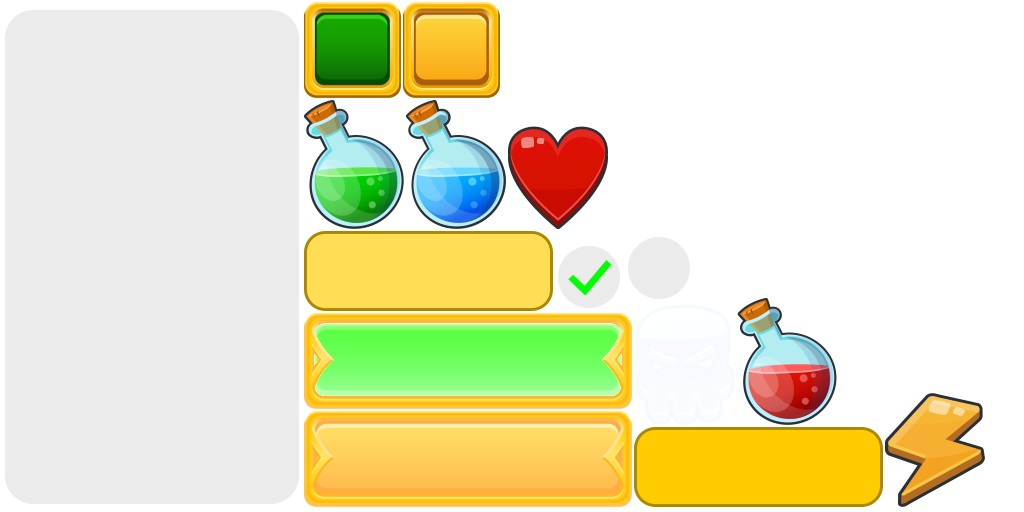
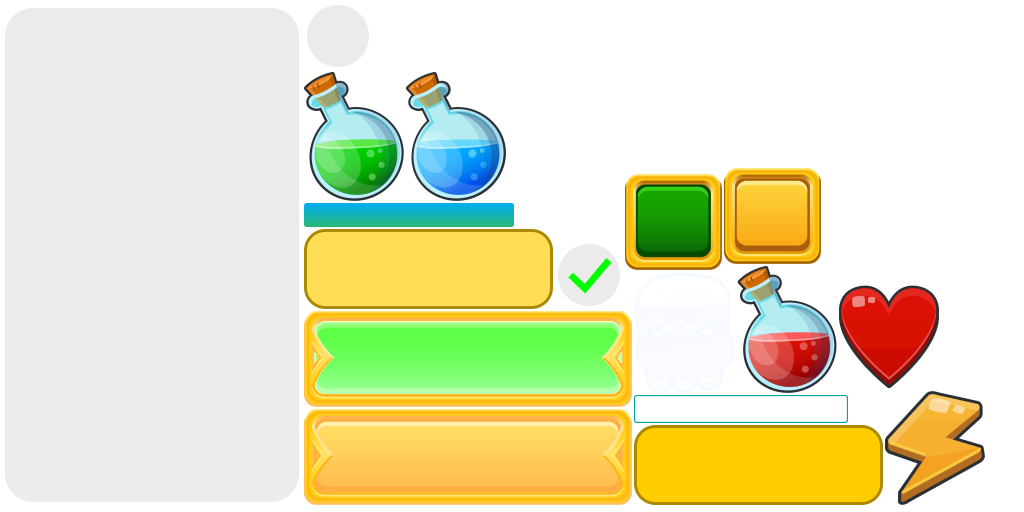
Adding ProgressBarUI

Changed region(s): [[0.2812, 0.0, 0.9688, 1.0], [0.2812, 0.6875, 0.3438, 0.7188], [0.3125, 0.875, 0.3438, 0.9062]]

diff --git a/core/src/main/java/com/axehigh/game/poc/menu/util/ProgressBarUI.java b/core/src/main/java/com/axehigh/game/poc/menu/util/ProgressBarUI.java
@@ -1,0 +1,51 @@
+package com.axehigh.game.poc.menu.util;
+
+import com.axehigh.game.poc.menu.assets.Assets;
+import com.badlogic.gdx.graphics.g2d.Batch;
+import com.badlogic.gdx.graphics.g2d.TextureAtlas.AtlasRegion;
+import com.badlogic.gdx.scenes.scene2d.ui.Image;
+import com.badlogic.gdx.scenes.scene2d.ui.Table;
+
+public class ProgressBarUI extends Table {
+    public final static float WIDTH = 180;
+    public final static float HEIGHT = 30;
+    float BAR_WIDTH = 140;
+    float BAR_HEIGHT = 20;
+
+    public float maxNum;
+    public float actualNum;
+    AtlasRegion bar;
+
+    public ProgressBarUI(AtlasRegion bar, AtlasRegion icon, float maxNum, float x, float y) {
+        this.setBounds(x, y, WIDTH, HEIGHT);
+        this.maxNum = maxNum;
+        this.actualNum = maxNum;
+        setBackground(Assets.progressBarBackground);
+        setIcon(icon);
+        this.bar = bar;
+
+    }
+
+    private void setIcon(AtlasRegion icon) {
+        Image imgIcon = new Image(icon);
+        // Both height because i want it to be a square
+        imgIcon.scaleBy(-.3f);
+        imgIcon.setPosition(-15, getHeight() / 2f - (imgIcon.getPrefHeight() * imgIcon.getScaleY() / 2f));
+        addActor(imgIcon);
+
+    }
+
+    public void updateActualNum(float actualNum) {
+        this.actualNum = actualNum;
+
+        if (actualNum > maxNum)
+            maxNum = actualNum;
+    }
+
+    @Override
+    public void draw(Batch batch, float parentAlpha) {
+        super.draw(batch, parentAlpha);
+        if (actualNum > 0)
+            batch.draw(bar, this.getX() + 34, this.getY() + 6, BAR_WIDTH * (actualNum / maxNum), BAR_HEIGHT);
+    }
+}

diff --git a/core/src/main/java/com/axehigh/game/poc/menu/menu/HudScreen.java b/core/src/main/java/com/axehigh/game/poc/menu/menu/HudScreen.java
@@ -3,16 +3,11 @@ package com.axehigh.game.poc.menu.menu;
 import com.axehigh.game.poc.menu.Game;
 import com.axehigh.game.poc.menu.assets.AssetDescriptors;
 import com.axehigh.game.poc.menu.assets.RegionNames;
-import com.axehigh.game.poc.menu.util.ScreenManager;
 import com.badlogic.gdx.scenes.scene2d.Actor;
-import com.badlogic.gdx.scenes.scene2d.ui.ImageButton;
 import com.badlogic.gdx.scenes.scene2d.ui.Skin;
 import com.badlogic.gdx.scenes.scene2d.ui.Table;
 import com.badlogic.gdx.scenes.scene2d.ui.TextButton;
 import com.badlogic.gdx.scenes.scene2d.utils.ChangeListener;
-
-import static com.axehigh.game.poc.menu.assets.RegionNames.iconSkuld;
-import static com.axehigh.game.poc.menu.util.ImageHelper.getImageButton;
 
 public class HudScreen extends MenuScreenBase {
 

diff --git a/core/src/main/java/com/axehigh/game/poc/menu/Game.java b/core/src/main/java/com/axehigh/game/poc/menu/Game.java
@@ -1,6 +1,7 @@
 package com.axehigh.game.poc.menu;
 
 import com.axehigh.game.poc.menu.assets.AssetDescriptors;
+import com.axehigh.game.poc.menu.assets.Assets;
 import com.axehigh.game.poc.menu.menu.HudScreen;
 import com.axehigh.game.poc.menu.menu.MenuScreen;
 import com.axehigh.game.poc.menu.menu.OptionsScreen;
@@ -29,10 +30,13 @@ public class Game extends com.badlogic.gdx.Game {
     @Override
     public void create() {
         batch = new SpriteBatch();
+
         assetManager = new AssetManager();
         assetManager.load(AssetDescriptors.UI_SKIN);
         assetManager.finishLoading();
+
         skin = new Skin(Gdx.files.internal(UI_SKIN));
+        Assets.load(skin);
 
         ScreenManager.initialize(this);
 

diff --git a/core/src/main/java/com/axehigh/game/poc/menu/assets/Assets.java b/core/src/main/java/com/axehigh/game/poc/menu/assets/Assets.java
@@ -1,0 +1,19 @@
+package com.axehigh.game.poc.menu.assets;
+
+import com.badlogic.gdx.Gdx;
+import com.badlogic.gdx.graphics.g2d.TextureAtlas;
+import com.badlogic.gdx.graphics.g2d.TextureRegion;
+import com.badlogic.gdx.scenes.scene2d.ui.Skin;
+import com.badlogic.gdx.scenes.scene2d.utils.TextureRegionDrawable;
+
+public class Assets {
+
+    public static TextureRegionDrawable progressBarBackground;
+
+
+    public static void load(Skin skin) {
+        progressBarBackground = new TextureRegionDrawable(skin.getRegion(RegionNames.healthBar));
+    }
+
+
+}

diff --git a/core/src/main/java/com/axehigh/game/poc/menu/util/ImageHelper.java b/core/src/main/java/com/axehigh/game/poc/menu/util/ImageHelper.java
@@ -9,7 +9,13 @@ import com.badlogic.gdx.utils.Scaling;
 
 public class ImageHelper {
 
-    public static ImageButton getImageButton(Skin uiskin, String icon,float scale) {
+
+
+    public static TextureRegionDrawable getTextureRegionDrawable(Skin uiSkin, String region) {
+        return new TextureRegionDrawable(uiSkin.getRegion(region));
+    }
+
+    public static ImageButton getImageButton(Skin uiskin, String icon, float scale) {
         //This works
         ImageButton imageButton = new ImageButton(uiskin);
 

diff --git a/core/src/main/java/com/axehigh/game/poc/menu/assets/AssetDescriptors.java b/core/src/main/java/com/axehigh/game/poc/menu/assets/AssetDescriptors.java
@@ -14,6 +14,8 @@ public class AssetDescriptors {
     public static final AssetDescriptor<TextureAtlas> UI = new AssetDescriptor<TextureAtlas>(AssetPaths.UI, TextureAtlas.class);
     public static final AssetDescriptor<Skin> UI_SKIN = new AssetDescriptor<Skin>(AssetPaths.UI_SKIN, Skin.class);
 
+
+
     private AssetDescriptors() {
     }
 }

diff --git a/core/src/main/java/com/axehigh/game/poc/menu/assets/RegionNames.java b/core/src/main/java/com/axehigh/game/poc/menu/assets/RegionNames.java
@@ -6,4 +6,7 @@ public class RegionNames {
     public static final String PANEL = "panel";
 
     public static final String iconSkuld = "icons/bottle_blue";
+
+    public static final String healthBarLina = "hud/HealthBar_line";
+    public static final String healthBar = "hud/HealhtBar";
 }

diff --git a/core/src/main/java/com/axehigh/game/poc/menu/assets/AtlasRegion.java b/core/src/main/java/com/axehigh/game/poc/menu/assets/AtlasRegion.java
@@ -1,0 +1,6 @@
+package com.axehigh.game.poc.menu.assets;
+
+public class AtlasRegion {
+
+
+}
